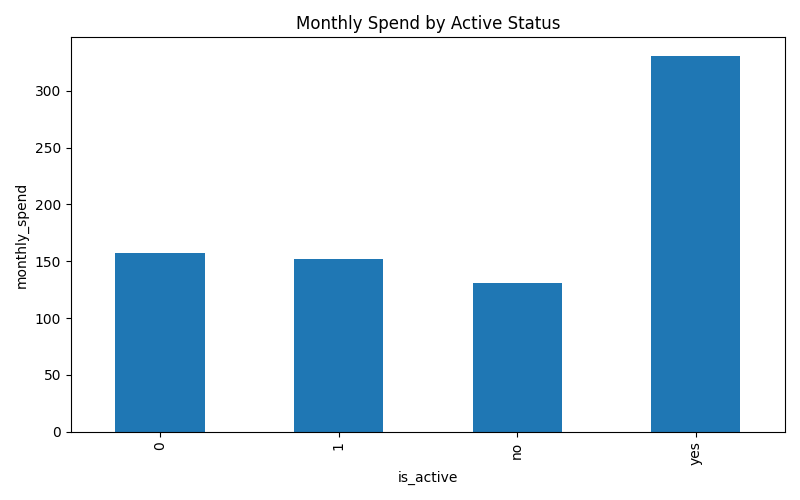
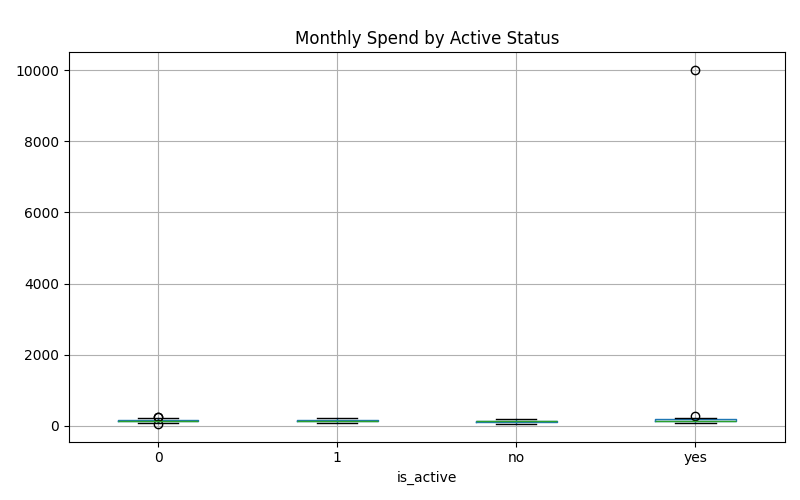
Add /preview endpoint: separate cleaning proposal from execution for human-in-the-loop approval

diff --git a/main.py b/main.py
@@ -32,6 +32,10 @@ class UserCredentials(BaseModel):
     password: str
 
 
+class ApprovedActions(BaseModel):
+    approved_actions: list
+
+
 @app.get("/")
 def read_root():
     return {"status": "Backend is alive", "project": "AI Data Analyst Agent"}
@@ -108,9 +112,37 @@ async def upload_dataset(
     return {"dataset_id": dataset_id, "filename": file.filename}
 
 
-def run_pipeline_in_background(dataset_id: str, filepath: str):
+@app.post("/preview/{dataset_id}")
+def preview_cleaning(
+    dataset_id: str,
+    db: Session = Depends(get_db),
+    current_user: User = Depends(get_current_user),
+):
+    """
+    Runs Profiling + proposes Cleaning actions WITHOUT applying them.
+    Returns the list so the user can approve/reject each one before
+    the full pipeline runs.
+    """
+    dataset = db.query(Dataset).filter(Dataset.dataset_id == dataset_id).first()
+    if not dataset:
+        raise HTTPException(status_code=404, detail="Dataset not found")
+    if dataset.owner_id != current_user.id:
+        raise HTTPException(status_code=403, detail="You do not have access to this dataset")
+
+    from profiling_agent import analyze_dataset
+    from cleaning_agent import propose_cleaning_actions
+
+    filepath = os.path.join(UPLOAD_DIR, f"{dataset_id}.csv")
+    findings = analyze_dataset(filepath)
+    proposed_actions = propose_cleaning_actions(findings)
+
+    return {"profiling_findings": findings, "proposed_actions": proposed_actions}
+
+
+def run_pipeline_in_background(dataset_id: str, filepath: str, approved_actions: list):
     """
     Runs the full agent pipeline and saves results to the database.
+    Uses the user-approved cleaning actions instead of auto-approving.
     """
     from database import SessionLocal
     db = SessionLocal()
@@ -121,7 +153,11 @@ def run_pipeline_in_background(dataset_id: str, filepath: str):
         db.commit()
 
         pipeline = build_pipeline()
-        final_state = pipeline.invoke({"dataset_id": dataset_id, "filepath": filepath})
+        final_state = pipeline.invoke({
+            "dataset_id": dataset_id,
+            "filepath": filepath,
+            "approved_cleaning_actions": approved_actions,
+        })
 
         result_to_save = {
             "profiling_findings": final_state.get("profiling_findings"),
@@ -153,13 +189,14 @@ def run_pipeline_in_background(dataset_id: str, filepath: str):
 @app.post("/analyze/{dataset_id}")
 def start_analysis(
     dataset_id: str,
+    approved: ApprovedActions,
     background_tasks: BackgroundTasks,
     db: Session = Depends(get_db),
     current_user: User = Depends(get_current_user),
 ):
     """
-    Triggers the full agent pipeline on a previously uploaded dataset.
-    Only the dataset's owner can trigger analysis on it.
+    Triggers the full agent pipeline on a previously uploaded dataset,
+    using only the cleaning actions the user approved.
     """
     dataset = db.query(Dataset).filter(Dataset.dataset_id == dataset_id).first()
     if not dataset:
@@ -168,7 +205,9 @@ def start_analysis(
         raise HTTPException(status_code=403, detail="You do not have access to this dataset")
 
     filepath = os.path.join(UPLOAD_DIR, f"{dataset_id}.csv")
-    background_tasks.add_task(run_pipeline_in_background, dataset_id, filepath)
+    background_tasks.add_task(
+        run_pipeline_in_background, dataset_id, filepath, approved.approved_actions
+    )
 
     return {"dataset_id": dataset_id, "status": "processing"}
 

diff --git a/pipeline.py b/pipeline.py
@@ -30,6 +30,7 @@ def update_progress(dataset_id: str, step: str):
 class PipelineState(TypedDict):
     dataset_id: str
     filepath: str
+    approved_cleaning_actions: Optional[list]
     df: Optional[pd.DataFrame]
     profiling_findings: Optional[dict]
     cleaning_actions: Optional[list]
@@ -51,9 +52,9 @@ def profiling_node(state: PipelineState) -> dict:
 
 def cleaning_node(state: PipelineState) -> dict:
     update_progress(state["dataset_id"], "cleaning")
-    print("Running Cleaning Agent...")
-    actions = propose_cleaning_actions(state["profiling_findings"])
+    print("Applying approved Cleaning actions...")
 
+    actions = state.get("approved_cleaning_actions") or []
     df = state["df"]
     for action in actions:
         try:
@@ -143,7 +144,19 @@ if __name__ == "__main__":
     pipeline = build_pipeline()
 
     print("Starting full pipeline run...\n")
-    final_state = pipeline.invoke({"dataset_id": "test-run", "filepath": "data/sample_messy_customers.csv"})
+    final_state = pipeline.invoke({
+        "dataset_id": "test-run",
+        "filepath": "data/sample_messy_customers.csv",
+        "approved_cleaning_actions": [
+            {"action": "remove_duplicates", "column": "all"},
+            {"action": "standardize_categories", "column": "region"},
+            {"action": "standardize_categories", "column": "is_active"},
+            {"action": "fix_dtype", "column": "age"},
+            {"action": "impute_missing", "column": "age"},
+            {"action": "impute_missing", "column": "monthly_spend"},
+            {"action": "impute_missing", "column": "region"},
+        ],
+    })
 
     print("\n" + "=" * 60)
     print("PIPELINE COMPLETE")
